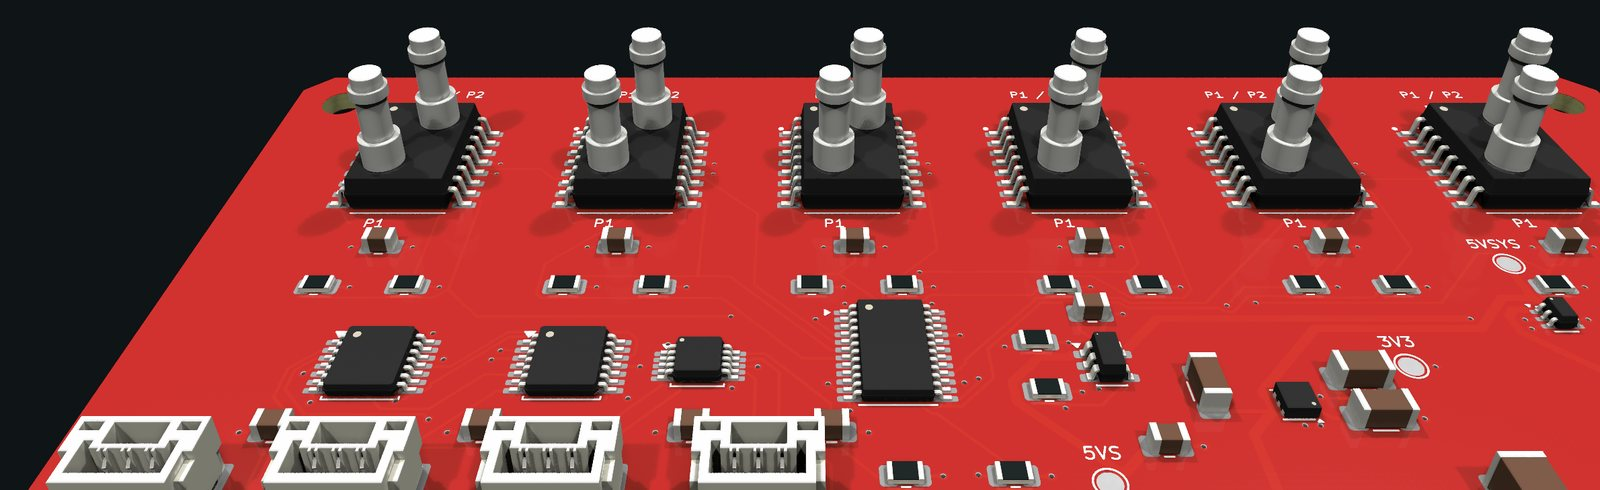
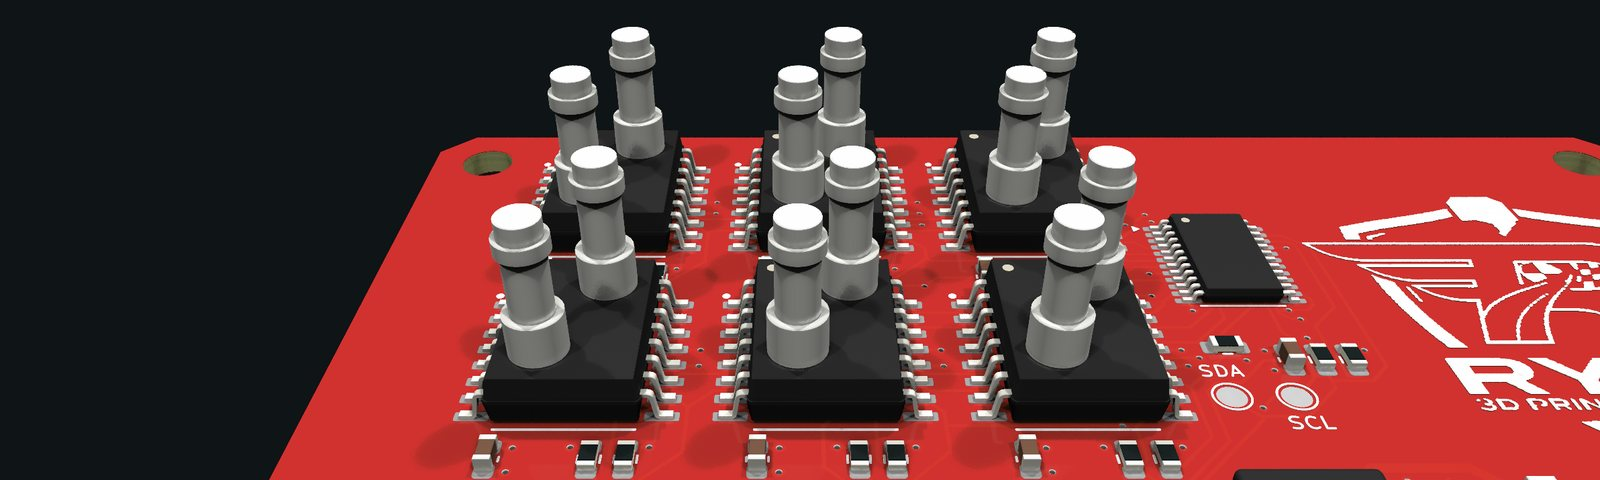
Pressure node post: rev D board
New renders of the 79 x 70 mm board (hero, cover, top view, sensor
close-up), the labelled tour moved to the new part positions, and the
UART header taken out of the schematic and pin map.

Claude-Session: https://claude.ai/code/session_0179yenozQ4DUcdGS3Z8KsNS

diff --git a/_includes/pressure-node-feature.html b/_includes/pressure-node-feature.html
@@ -88,7 +88,7 @@
 <div class="pcn">
 
 <div class="hero">
-  <span class="k">CAN sensor node · rev C</span>
+  <span class="k">CAN sensor node · rev D</span>
   <h1>Pressure CAN node</h1>
   <p class="sub">Six differential pressure sensors and four 0–5 V inputs on one board. It reads all ten and puts them on the car's CAN bus a hundred times a second, so the data logger records aero, intake and cooling pressures alongside everything else.</p>
   <div class="stats">
@@ -97,8 +97,8 @@
     <div class="stat"><b>100 Hz</b><span>CAN frames at 500 kbit/s</span></div>
     <div class="stat"><b>12 V</b><span>switched supply, or USB on the bench</span></div>
   </div>
-  <figure class="shot"><a href="/assets/images/pressure-node/hero.jpg"><img src="/assets/images/pressure-node/hero.jpg" alt="Render of the red rev C board at an angle: six pressure sensors with hose barbs along the back edge, the ESP32-S3 module at the front left, USB-C at the front" width="1600" height="938" decoding="async"></a>
-  <figcaption>Rev C, rendered from the board files. 110 × 90 mm, four layers.</figcaption></figure>
+  <figure class="shot"><a href="/assets/images/pressure-node/hero.jpg"><img src="/assets/images/pressure-node/hero.jpg" alt="Render of the red rev D board at an angle: six pressure sensors with hose barbs in two rows at the back left, the ESP32-S3 module on the left edge, the analog, USB-C and CAN connectors along the front" width="1600" height="873" decoding="async"></a>
+  <figcaption>Rev D, rendered from the board files. 79 × 70 mm, four layers.</figcaption></figure>
 </div>
 
 <h2 id="measure">What it measures</h2>
@@ -112,10 +112,10 @@
 
 <h2 id="board">The board</h2>
 <p class="lead">Everything is surface mount and placed by the board house, the pressure sensors included.</p>
-<figure class="tourfig"><div class="scroll"><svg class="tour" viewBox="0 0 1840 773" role="img" aria-label="Top view of the rev C board with each section labelled: pressure sensors, I2C switch, analog front end, ADC, analog inputs, status LED, ESP32-S3, buttons, 5 V OR, sensor 5 V switch, 3.3 V regulator, 5 V buck, input protection, 12 V input, CAN transceiver, CAN connector and USB-C"><image href="/assets/images/pressure-node/top.jpg" x="470" y="30" width="900" height="713.2"/><polyline class="ld-u" points="452.0,60.0 464.0,60.0 626.5,149.1"/><polyline class="ld" points="452.0,60.0 464.0,60.0 626.5,149.1"/><circle class="ld-dot" cx="626.5" cy="149.1" r="7"/><text class="ct" x="444" y="70.0" text-anchor="end">Pressure sensors DP1–6</text><text class="cd" x="444" y="101.0" text-anchor="end">WF200DPZ, ±10 kPa, two barbs</text><polyline class="ld-u" points="452.0,153.9 464.0,153.9 886.7,290.4"/><polyline class="ld" points="452.0,153.9 464.0,153.9 886.7,290.4"/><circle class="ld-dot" cx="886.7" cy="290.4" r="7"/><text class="ct" x="444" y="163.9" text-anchor="end">I2C switch</text><text class="cd" x="444" y="194.9" text-anchor="end">TCA9548A, a branch per sensor</text><polyline class="ld-u" points="452.0,247.8 464.0,247.8 738.0,297.8"/><polyline class="ld" points="452.0,247.8 464.0,247.8 738.0,297.8"/><circle class="ld-dot" cx="738.0" cy="297.8" r="7"/><text class="ct" x="444" y="257.8" text-anchor="end">Isolate and buffer</text><text class="cd" x="444" y="288.8" text-anchor="end">TMUX1511 and TLV9004</text><polyline class="ld-u" points="452.0,341.7 464.0,341.7 797.5,297.8"/><polyline class="ld" points="452.0,341.7 464.0,341.7 797.5,297.8"/><circle class="ld-dot" cx="797.5" cy="297.8" r="7"/><text class="ct" x="444" y="351.7" text-anchor="end">16-bit ADC</text><text class="cd" x="444" y="382.7" text-anchor="end">ADS1115 for the analog inputs</text><polyline class="ld-u" points="452.0,435.6 464.0,435.6 581.9,369.2"/><polyline class="ld" points="452.0,435.6 464.0,435.6 581.9,369.2"/><circle class="ld-dot" cx="581.9" cy="369.2" r="7"/><text class="ct" x="444" y="445.6" text-anchor="end">Analog inputs AIN1–4</text><text class="cd" x="444" y="476.6" text-anchor="end">5 V, ground, 0–5 V signal</text><polyline class="ld-u" points="452.0,529.5 464.0,529.5 834.6,558.0"/><polyline class="ld" points="452.0,529.5 464.0,529.5 834.6,558.0"/><circle class="ld-dot" cx="834.6" cy="558.0" r="7"/><text class="ct" x="444" y="539.5" text-anchor="end">Status LED</text><text class="cd" x="444" y="570.5" text-anchor="end">On when all ten channels read</text><polyline class="ld-u" points="452.0,623.4 464.0,623.4 581.9,595.2"/><polyline class="ld" points="452.0,623.4 464.0,623.4 581.9,595.2"/><circle class="ld-dot" cx="581.9" cy="595.2" r="7"/><text class="ct" x="444" y="633.4" text-anchor="end">ESP32-S3</text><text class="cd" x="444" y="664.4" text-anchor="end">Antenna hangs past the edge</text><polyline class="ld-u" points="452.0,717.2 464.0,717.2 760.3,639.8"/><polyline class="ld" points="452.0,717.2 464.0,717.2 760.3,639.8"/><circle class="ld-dot" cx="760.3" cy="639.8" r="7"/><text class="ct" x="444" y="727.2" text-anchor="end">RESET, BOOT, ZERO</text><text class="cd" x="444" y="758.2" text-anchor="end">ZERO zeroes the pressures</text><polyline class="ld-u" points="1388.0,60.0 1376.0,60.0 1206.3,268.1"/><polyline class="ld" points="1388.0,60.0 1376.0,60.0 1206.3,268.1"/><circle class="ld-dot" cx="1206.3" cy="268.1" r="7"/><text class="ct" x="1396" y="70.0" text-anchor="start">5 V OR</text><text class="cd" x="1396" y="101.0" text-anchor="start">LM66100 pair: car or USB</text><polyline class="ld-u" points="1388.0,142.2 1376.0,142.2 983.3,297.8"/><polyline class="ld" points="1388.0,142.2 1376.0,142.2 983.3,297.8"/><circle class="ld-dot" cx="983.3" cy="297.8" r="7"/><text class="ct" x="1396" y="152.2" text-anchor="start">Sensor 5 V switch</text><text class="cd" x="1396" y="183.2" text-anchor="start">TPS2051B, 500 mA limit</text><polyline class="ld-u" points="1388.0,224.3 1376.0,224.3 1061.4,320.1"/><polyline class="ld" points="1388.0,224.3 1376.0,224.3 1061.4,320.1"/><circle class="ld-dot" cx="1061.4" cy="320.1" r="7"/><text class="ct" x="1396" y="234.3" text-anchor="start">3.3 V regulator</text><text class="cd" x="1396" y="265.3" text-anchor="start">TLV75533 LDO for the logic</text><polyline class="ld-u" points="1388.0,306.5 1376.0,306.5 1184.0,416.7"/><polyline class="ld" points="1388.0,306.5 1376.0,306.5 1184.0,416.7"/><circle class="ld-dot" cx="1184.0" cy="416.7" r="7"/><text class="ct" x="1396" y="316.5" text-anchor="start">5 V buck</text><text class="cd" x="1396" y="347.5" text-anchor="start">LM5164 and its 33 µH inductor</text><polyline class="ld-u" points="1388.0,388.6 1376.0,388.6 1258.4,491.1"/><polyline class="ld" points="1388.0,388.6 1376.0,388.6 1258.4,491.1"/><circle class="ld-dot" cx="1258.4" cy="491.1" r="7"/><text class="ct" x="1396" y="398.6" text-anchor="start">Input protection</text><text class="cd" x="1396" y="429.6" text-anchor="start">Fuse, reverse diode, TVS</text><polyline class="ld-u" points="1388.0,470.8 1376.0,470.8 1295.5,569.9"/><polyline class="ld" points="1388.0,470.8 1376.0,470.8 1295.5,569.9"/><circle class="ld-dot" cx="1295.5" cy="569.9" r="7"/><text class="ct" x="1396" y="480.8" text-anchor="start">12 V in</text><text class="cd" x="1396" y="511.8" text-anchor="start">Switched ignition supply</text><polyline class="ld-u" points="1388.0,552.9 1376.0,552.9 1102.2,632.3"/><polyline class="ld" points="1388.0,552.9 1376.0,552.9 1102.2,632.3"/><circle class="ld-dot" cx="1102.2" cy="632.3" r="7"/><text class="ct" x="1396" y="562.9" text-anchor="start">CAN transceiver</text><text class="cd" x="1396" y="593.9" text-anchor="start">TCAN1042 and ESD clamp</text><polyline class="ld-u" points="1388.0,635.1 1376.0,635.1 1191.4,688.8"/><polyline class="ld" points="1388.0,635.1 1376.0,635.1 1191.4,688.8"/><circle class="ld-dot" cx="1191.4" cy="688.8" r="7"/><text class="ct" x="1396" y="645.1" text-anchor="start">CAN bus</text><text class="cd" x="1396" y="676.1" text-anchor="start">Bridge TERM for 120 Ω</text><polyline class="ld-u" points="1388.0,717.2 1376.0,717.2 1035.3,699.2"/><polyline class="ld" points="1388.0,717.2 1376.0,717.2 1035.3,699.2"/><circle class="ld-dot" cx="1035.3" cy="699.2" r="7"/><text class="ct" x="1396" y="727.2" text-anchor="start">USB-C</text><text class="cd" x="1396" y="758.2" text-anchor="start">Programming, logs, bench power</text></svg></div></figure>
+<figure class="tourfig"><div class="scroll"><svg class="tour" viewBox="0 0 1840 820" role="img" aria-label="Top view of the rev D board with each section labelled: pressure sensors, I2C switch, analog front end, ADC, analog inputs, status LED, ESP32-S3, buttons, 5 V OR, sensor 5 V switch, 3.3 V regulator, 5 V buck, input protection, 12 V input, CAN transceiver, CAN connector and USB-C"><image href="/assets/images/pressure-node/top.jpg" x="470" y="30" width="900" height="760.5"/><polyline class="ld-u" points="452.0,60.0 464.0,60.0 678.3,150.1"/><polyline class="ld" points="452.0,60.0 464.0,60.0 678.3,150.1"/><circle class="ld-dot" cx="678.3" cy="150.1" r="7"/><text class="ct" x="444" y="70.0" text-anchor="end">Pressure sensors DP1–6</text><text class="cd" x="444" y="101.0" text-anchor="end">WF200DPZ, ±10 kPa, two barbs</text><polyline class="ld-u" points="452.0,160.6 464.0,160.6 912.4,433.3"/><polyline class="ld" points="452.0,160.6 464.0,160.6 912.4,433.3"/><circle class="ld-dot" cx="912.4" cy="433.3" r="7"/><text class="ct" x="444" y="170.6" text-anchor="end">5 V OR</text><text class="cd" x="444" y="201.6" text-anchor="end">LM66100 pair: car or USB</text><polyline class="ld-u" points="452.0,261.3 464.0,261.3 874.4,419.2"/><polyline class="ld" points="452.0,261.3 464.0,261.3 874.4,419.2"/><circle class="ld-dot" cx="874.4" cy="419.2" r="7"/><text class="ct" x="444" y="271.3" text-anchor="end">Status LED</text><text class="cd" x="444" y="302.3" text-anchor="end">On when all ten channels read</text><polyline class="ld-u" points="452.0,361.9 464.0,361.9 798.3,492.3"/><polyline class="ld" points="452.0,361.9 464.0,361.9 798.3,492.3"/><circle class="ld-dot" cx="798.3" cy="492.3" r="7"/><text class="ct" x="444" y="371.9" text-anchor="end">RESET, BOOT, ZERO</text><text class="cd" x="444" y="402.9" text-anchor="end">ZERO zeroes the pressures</text><polyline class="ld-u" points="452.0,462.6 464.0,462.6 617.3,502.3"/><polyline class="ld" points="452.0,462.6 464.0,462.6 617.3,502.3"/><circle class="ld-dot" cx="617.3" cy="502.3" r="7"/><text class="ct" x="444" y="472.6" text-anchor="end">ESP32-S3</text><text class="cd" x="444" y="503.6" text-anchor="end">Antenna hangs past the edge</text><polyline class="ld-u" points="452.0,563.2 464.0,563.2 884.4,630.3"/><polyline class="ld" points="452.0,563.2 464.0,563.2 884.4,630.3"/><circle class="ld-dot" cx="884.4" cy="630.3" r="7"/><text class="ct" x="444" y="573.2" text-anchor="end">16-bit ADC</text><text class="cd" x="444" y="604.2" text-anchor="end">ADS1115 for the analog inputs</text><polyline class="ld-u" points="452.0,663.9 464.0,663.9 710.3,630.3"/><polyline class="ld" points="452.0,663.9 464.0,663.9 710.3,630.3"/><circle class="ld-dot" cx="710.3" cy="630.3" r="7"/><text class="ct" x="444" y="673.9" text-anchor="end">Isolate and buffer</text><text class="cd" x="444" y="704.9" text-anchor="end">TMUX1511 and TLV9004</text><polyline class="ld-u" points="452.0,764.5 464.0,764.5 662.3,726.4"/><polyline class="ld" points="452.0,764.5 464.0,764.5 662.3,726.4"/><circle class="ld-dot" cx="662.3" cy="726.4" r="7"/><text class="ct" x="444" y="774.5" text-anchor="end">Analog inputs AIN1–4</text><text class="cd" x="444" y="805.5" text-anchor="end">5 V, ground, 0–5 V signal</text><polyline class="ld-u" points="1388.0,60.0 1376.0,60.0 1033.4,210.2"/><polyline class="ld" points="1388.0,60.0 1376.0,60.0 1033.4,210.2"/><circle class="ld-dot" cx="1033.4" cy="210.2" r="7"/><text class="ct" x="1396" y="70.0" text-anchor="start">I2C switch</text><text class="cd" x="1396" y="101.0" text-anchor="start">TCA9548A, a branch per sensor</text><polyline class="ld-u" points="1388.0,148.1 1376.0,148.1 912.4,512.3"/><polyline class="ld" points="1388.0,148.1 1376.0,148.1 912.4,512.3"/><circle class="ld-dot" cx="912.4" cy="512.3" r="7"/><text class="ct" x="1396" y="158.1" text-anchor="start">3.3 V regulator</text><text class="cd" x="1396" y="189.1" text-anchor="start">TLV75533 LDO for the logic</text><polyline class="ld-u" points="1388.0,236.1 1376.0,236.1 1041.5,446.3"/><polyline class="ld" points="1388.0,236.1 1376.0,236.1 1041.5,446.3"/><circle class="ld-dot" cx="1041.5" cy="446.3" r="7"/><text class="ct" x="1396" y="246.1" text-anchor="start">5 V buck</text><text class="cd" x="1396" y="277.1" text-anchor="start">LM5164 and its 33 µH inductor</text><polyline class="ld-u" points="1388.0,324.2 1376.0,324.2 1215.5,456.3"/><polyline class="ld" points="1388.0,324.2 1376.0,324.2 1215.5,456.3"/><circle class="ld-dot" cx="1215.5" cy="456.3" r="7"/><text class="ct" x="1396" y="334.2" text-anchor="start">Input protection</text><text class="cd" x="1396" y="365.2" text-anchor="start">Fuse, reverse diode, TVS</text><polyline class="ld-u" points="1388.0,412.2 1376.0,412.2 1304.6,435.3"/><polyline class="ld" points="1388.0,412.2 1376.0,412.2 1304.6,435.3"/><circle class="ld-dot" cx="1304.6" cy="435.3" r="7"/><text class="ct" x="1396" y="422.2" text-anchor="start">12 V in</text><text class="cd" x="1396" y="453.2" text-anchor="start">Switched ignition supply</text><polyline class="ld-u" points="1388.0,500.3 1376.0,500.3 996.4,524.3"/><polyline class="ld" points="1388.0,500.3 1376.0,500.3 996.4,524.3"/><circle class="ld-dot" cx="996.4" cy="524.3" r="7"/><text class="ct" x="1396" y="510.3" text-anchor="start">Sensor 5 V switch</text><text class="cd" x="1396" y="541.3" text-anchor="start">TPS2051B, 500 mA limit</text><polyline class="ld-u" points="1388.0,588.4 1376.0,588.4 1182.5,636.3"/><polyline class="ld" points="1388.0,588.4 1376.0,588.4 1182.5,636.3"/><circle class="ld-dot" cx="1182.5" cy="636.3" r="7"/><text class="ct" x="1396" y="598.4" text-anchor="start">CAN transceiver</text><text class="cd" x="1396" y="629.4" text-anchor="start">TCAN1042 and ESD clamp</text><polyline class="ld-u" points="1388.0,676.4 1376.0,676.4 1054.5,727.4"/><polyline class="ld" points="1388.0,676.4 1376.0,676.4 1054.5,727.4"/><circle class="ld-dot" cx="1054.5" cy="727.4" r="7"/><text class="ct" x="1396" y="686.4" text-anchor="start">USB-C</text><text class="cd" x="1396" y="717.4" text-anchor="start">Programming, logs, bench power</text><polyline class="ld-u" points="1388.0,764.5 1376.0,764.5 1180.5,726.4"/><polyline class="ld" points="1388.0,764.5 1376.0,764.5 1180.5,726.4"/><circle class="ld-dot" cx="1180.5" cy="726.4" r="7"/><text class="ct" x="1396" y="774.5" text-anchor="start">CAN bus</text><text class="cd" x="1396" y="805.5" text-anchor="start">Bridge TERM for 120 Ω</text></svg></div></figure>
 <figure class="shot"><figcaption>Top view, rendered. <a href="/assets/images/pressure-node/top.jpg">Open the full-size render.</a></figcaption></figure>
-<figure class="shot"><a href="/assets/images/pressure-node/sensors.jpg"><img src="/assets/images/pressure-node/sensors.jpg" alt="Close render of the six pressure sensors in a row, each with two grey hose barbs, with the analog front-end chips in front of them" width="1600" height="490" loading="lazy" decoding="async"></a>
-<figcaption>The six sensors. P1 is the barb nearer the middle of the board, P2 the one nearer the edge; the silk marks both.</figcaption></figure>
+<figure class="shot"><a href="/assets/images/pressure-node/sensors.jpg"><img src="/assets/images/pressure-node/sensors.jpg" alt="Close render of the six pressure sensors in two rows of three, each with two grey hose barbs, with the I2C switch to their right" width="1600" height="480" loading="lazy" decoding="async"></a>
+<figcaption>The six sensors, DP1–3 at the back and DP4–6 in front. On each one P1 is the front barb in this view and P2 the back one; the silk marks both.</figcaption></figure>
 
 <h2 id="how">How it works</h2>
 <div class="how">
@@ -491,8 +491,6 @@
 <polyline class="w" points="618,350 660,350"/>
 <polyline class="w" points="618,390 660,390"/>
 <polyline class="w" points="618,430 660,430"/>
-<polyline class="w" points="618,500 660,500"/>
-<polyline class="w" points="618,540 660,540"/>
 <polyline class="w r" points="120,70 412,70"/>
 <polyline class="w r" points="300,70 300,85"/>
 <polyline class="w r" points="360,70 360,85"/>
@@ -536,8 +534,6 @@
 <path class="s" d="M600 350H618"/>
 <path class="s" d="M600 390H618"/>
 <path class="s" d="M600 430H618"/>
-<path class="s" d="M600 500H618"/>
-<path class="s" d="M600 540H618"/>
 <path class="s" d="M515 640V658"/>
 <path class="s" d="M515 658V666M507 666H523M510 670H520M513 674H517"/>
 <polygon class="tag r" points="120.0,70 113.0,62 84.9,62 84.9,78 113.0,78"/>
@@ -627,10 +623,6 @@
 <text class="pnm" x="595" y="394" text-anchor="end">IO17</text>
 <text class="pn" x="609" y="426" text-anchor="middle"></text>
 <text class="pnm" x="595" y="434" text-anchor="end">IO18</text>
-<text class="pn" x="609" y="496" text-anchor="middle"></text>
-<text class="pnm" x="595" y="504" text-anchor="end">TXD0</text>
-<text class="pn" x="609" y="536" text-anchor="middle"></text>
-<text class="pnm" x="595" y="544" text-anchor="end">RXD0</text>
 <text class="pn" x="519" y="653" text-anchor="start">1,40,41</text>
 <text class="pnm" x="515" y="634" text-anchor="middle">GND</text>
 <text class="net" x="668" y="74" text-anchor="start">I2C SDA → U6 mux, U15 ADC</text>
@@ -642,8 +634,6 @@
 <text class="net" x="668" y="354" text-anchor="start">ANALOG_EN → U13 switches</text>
 <text class="net" x="668" y="394" text-anchor="start">SENSOR_POWER_EN → U3 EN</text>
 <text class="net" x="668" y="434" text-anchor="start">SENSOR_POWER_FAULT_N ← U3 OC</text>
-<text class="net" x="668" y="504" text-anchor="start">UART TX → J2 (not fitted)</text>
-<text class="net" x="668" y="544" text-anchor="start">UART RX ← J2 (not fitted)</text>
 <text class="tagt r" x="109" y="74" text-anchor="end">3V3</text>
 <text class="ref" x="312" y="98" text-anchor="start">C13</text>
 <text class="val" x="312" y="111" text-anchor="start">100nF</text>
@@ -698,7 +688,7 @@
 <text class="ref" x="370" y="608" text-anchor="middle">R12  1k</text>
 <text class="ref" x="310" y="644" text-anchor="middle">D5</text>
 <text class="val" x="310" y="657" text-anchor="middle">green</text>
-</svg></div><figcaption>The WROOM module runs from 3.3 V. RESET and BOOT are the usual pull-up and button pairs; ZERO tells the firmware to zero the pressure channels. USB-C goes straight to the S3&#x27;s native USB through 33 Ω resistors and a USBLC6 ESD array, and the 5.1k CC resistors get 5 V from a USB-C charger. J2 (UART) isn&#x27;t fitted.</figcaption></figure></section><section class="sheet" id="pcn-pressure"><div class="tb"><span class="no">4</span><h3>Pressure sensor bus</h3><span class="refs">U6 · U7–U12 · R17–R31 · C16–C22</span></div><figure class="sch"><div class="scroll"><svg viewBox="0 0 1000 490" role="img" aria-label="I2C bus from the ESP32 through the TCA9548A switch U6 to six WF200DPZ pressure sensors, one per branch, all at address 0x6D" style="min-width:720px">
+</svg></div><figcaption>The WROOM module runs from 3.3 V. RESET and BOOT are the usual pull-up and button pairs; ZERO tells the firmware to zero the pressure channels. USB-C goes straight to the S3&#x27;s native USB through 33 Ω resistors and a USBLC6 ESD array, and the 5.1k CC resistors get 5 V from a USB-C charger.</figcaption></figure></section><section class="sheet" id="pcn-pressure"><div class="tb"><span class="no">4</span><h3>Pressure sensor bus</h3><span class="refs">U6 · U7–U12 · R17–R31 · C16–C22</span></div><figure class="sch"><div class="scroll"><svg viewBox="0 0 1000 490" role="img" aria-label="I2C bus from the ESP32 through the TCA9548A switch U6 to six WF200DPZ pressure sensors, one per branch, all at address 0x6D" style="min-width:720px">
 <polyline class="w" points="80,120 312,120"/>
 <polyline class="w" points="80,160 312,160"/>
 <polyline class="w" points="150,120 150,105"/>
@@ -1145,7 +1135,7 @@
 <text class="pnm" x="875" y="264" text-anchor="start">G</text>
 </svg></div><figcaption>U16 drives the bus from 5V SYS and talks to the ESP32 at 3.3 V through VIO. R52 holds STB high (standby) until the firmware pulls it low, and R53 keeps TX recessive during boot. D3 is the CAN ESD clamp. The 120 Ω terminator only connects if SJ1 is bridged.</figcaption></figure></section>
 <section class="sheet" id="pcn-gpio"><div class="tb"><span class="no">7</span><h3>ESP32 pin map</h3><span class="refs">U4</span></div>
-<div class="tablewrap"><table><thead><tr><th>GPIO</th><th>Net</th><th>Goes to</th></tr></thead><tbody><tr><td>IO4</td><td>I2C SDA</td><td>U6 mux, U15 ADC</td></tr><tr><td>IO5</td><td>I2C SCL</td><td>U6 mux, U15 ADC</td></tr><tr><td>IO10</td><td>MUX_RESET_N</td><td>U6 reset</td></tr><tr><td>IO6</td><td>CAN_TX</td><td>U16 TXD</td></tr><tr><td>IO7</td><td>CAN_RX</td><td>U16 RXD</td></tr><tr><td>IO15</td><td>CAN_STANDBY</td><td>U16 STB, high = standby</td></tr><tr><td>IO16</td><td>ANALOG_EN</td><td>U13 switches, high = inputs connected</td></tr><tr><td>IO17</td><td>SENSOR_POWER_EN</td><td>U3, high = 5 V to J4–J7</td></tr><tr><td>IO18</td><td>SENSOR_POWER_FAULT_N</td><td>U3 overcurrent, low = fault</td></tr><tr><td>IO8</td><td>STATUS_LED</td><td>D5 through R12</td></tr><tr><td>IO9</td><td>ZERO_N</td><td>SW3, low = pressed</td></tr><tr><td>IO0</td><td>BOOT_N</td><td>SW2, hold low at reset to flash</td></tr><tr><td>IO19 / IO20</td><td>USB D− / D+</td><td>J3 through R16 / R15</td></tr><tr><td>TXD0 / RXD0</td><td>UART</td><td>J2, not fitted</td></tr><tr><td>EN</td><td>ESP_EN</td><td>SW1 reset, R8 + C15 power-on delay</td></tr></tbody></table></div></section>
+<div class="tablewrap"><table><thead><tr><th>GPIO</th><th>Net</th><th>Goes to</th></tr></thead><tbody><tr><td>IO4</td><td>I2C SDA</td><td>U6 mux, U15 ADC</td></tr><tr><td>IO5</td><td>I2C SCL</td><td>U6 mux, U15 ADC</td></tr><tr><td>IO10</td><td>MUX_RESET_N</td><td>U6 reset</td></tr><tr><td>IO6</td><td>CAN_TX</td><td>U16 TXD</td></tr><tr><td>IO7</td><td>CAN_RX</td><td>U16 RXD</td></tr><tr><td>IO15</td><td>CAN_STANDBY</td><td>U16 STB, high = standby</td></tr><tr><td>IO16</td><td>ANALOG_EN</td><td>U13 switches, high = inputs connected</td></tr><tr><td>IO17</td><td>SENSOR_POWER_EN</td><td>U3, high = 5 V to J4–J7</td></tr><tr><td>IO18</td><td>SENSOR_POWER_FAULT_N</td><td>U3 overcurrent, low = fault</td></tr><tr><td>IO8</td><td>STATUS_LED</td><td>D5 through R12</td></tr><tr><td>IO9</td><td>ZERO_N</td><td>SW3, low = pressed</td></tr><tr><td>IO0</td><td>BOOT_N</td><td>SW2, hold low at reset to flash</td></tr><tr><td>IO19 / IO20</td><td>USB D− / D+</td><td>J3 through R16 / R15</td></tr><tr><td>EN</td><td>ESP_EN</td><td>SW1 reset, R8 + C15 power-on delay</td></tr></tbody></table></div></section>
 
-<p class="last">These are renders from the board files. Rev C hasn't been built yet, so none of it has been on a car.</p>
+<p class="last">These are renders from the board files. Rev D hasn't been built yet, so none of it has been on a car.</p>
 </div>

diff --git a/_posts/PRESSURE-NODE-POST-ORDER.md b/_posts/PRESSURE-NODE-POST-ORDER.md
@@ -13,12 +13,14 @@ Not a post. The running order for `2026-11-16-pressure-can-node.md`, whose page 
    table (0x520 to 0x523).
 5. **Schematic** (`#schematic`): legend, the overview block diagram (blocks link to their sheets),
    sheet links, sheets 1 to 6 with 4a, the ESP32 pin map.
-6. **Last line**: these are renders and rev C hasn't been built.
+6. **Last line**: these are renders and rev D hasn't been built.
 
 ## Standing rules
 
-- Rev C as of 2026-11-16: buck resistors 47k/150k, KT-0805G status LED, J2 (DEBUG) not
-  fitted, TCAN1042HGVDR. Keep the schematic, the tour and the text in step with the board files.
+- Rev D as of 2026-11-17: 79 × 70 mm, four layers, every part on top, sensors in a 3 × 2 grid.
+  Buck resistors 47k/150k, KT-0805G status LED, TCAN1042HGVDR, no UART header. Keep the
+  schematic, the tour and the text in step with the board files.
+- The page describes the current board only. No revision history or reasons for changes.
 - Nothing has been built or run on a car. Don't claim measured accuracy, rates or results until
   Matt reports a real board; the sensor scale and port sign still need a bench check.
 - The board's repository is private. Don't link it or name its scripts.
@@ -27,16 +29,18 @@ Not a post. The running order for `2026-11-16-pressure-can-node.md`, whose page 
 
 ## Images
 
-All in `assets/images/pressure-node/`, rendered on 2026-11-16 from the rev C board files with
+All in `assets/images/pressure-node/`, rendered on 2026-11-17 from the rev D board files with
 KiCad 10's raytracer: red mask, white silk, HAL finish. KiCad's library has no model for the
 WF200DPZ, the XKB TS-1187A switch or the HRO USB-C, so those are simple stand-ins: a SOIC-16W
 body with two grey barbs at the P1/P2 positions (10.3 mm tall), a 5.1 mm switch, and a plain
-USB-C shell. J2 is left bare because it isn't fitted.
+USB-C shell.
 
 - `hero.jpg`: perspective, rotated −58° about X and 20° about Z.
-- `sensors.jpg`: perspective close-up of the sensor row.
+- `sensors.jpg`: perspective close-up of the 3 × 2 sensor grid from the front edge, rotated −55°
+  about X, cropped above the sensor silk line.
 - `top.jpg`: straight down, orthographic. The labelled tour places its leader lines from part
-  centres in mm, using the board outline measured in this image (13.2 px/mm at 1600 px wide).
+  centres in mm, using the board outline measured in this image (17.8 px/mm at 1600 px wide).
+  Labels on each side are ordered so no two leader lines cross.
 - `cover.jpg`: the hero render cropped to 16:9.
 
 Replace the renders with photos of a built board when Matt has one.
